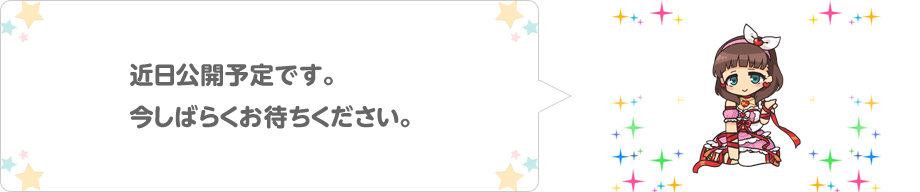
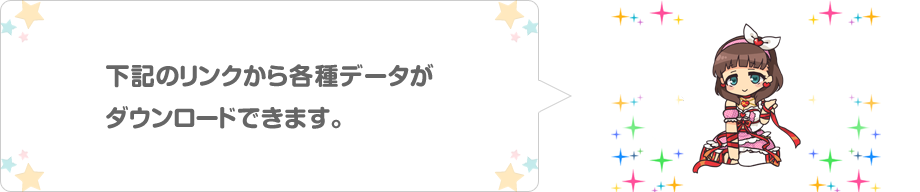
update download page

Changed region(s): [[0.0913, 0.3125, 0.487, 0.4688], [0.0913, 0.5312, 0.4565, 0.6875]]

diff --git a/products/cinderella-notes/common/css/common.css b/products/cinderella-notes/common/css/common.css
@@ -48,6 +48,13 @@ body{ border-top:3px double #9AB; font-size:12px; color:#666; background-image:u
 #content_charactor_navigation_box li{ float:left; }
 
 
+/* ==== PATCH ==== */
+
+
+#patch { overflow-y: scroll; height:220px; margin-top:20px; padding:10px 20px 10px 20px; border:1px solid #CCC; }
+#patch li{ padding-top:12px; padding-bottom:10px; border-bottom:1px dotted #aaa; }
+#patch .date{ color:#8AC; padding-right:10px; }
+
 /* ==== SLIDE ==== */
 
 

diff --git a/products/cinderella-notes/download.html b/products/cinderella-notes/download.html
@@ -75,6 +75,9 @@
 				<img src="img/img_title/title_download.png"><br />
 				<div id="content_box">
 					<img src="img/img_main/download_detail.png"><br>
+					<div id="patch">
+					    <li><span class="date">2014/01/xx</span><a href="">Coming soon...</a></li>
+					</div>
 				</div>
 				<img src="img/img_title/content_end.png"><br />
 			</div>
